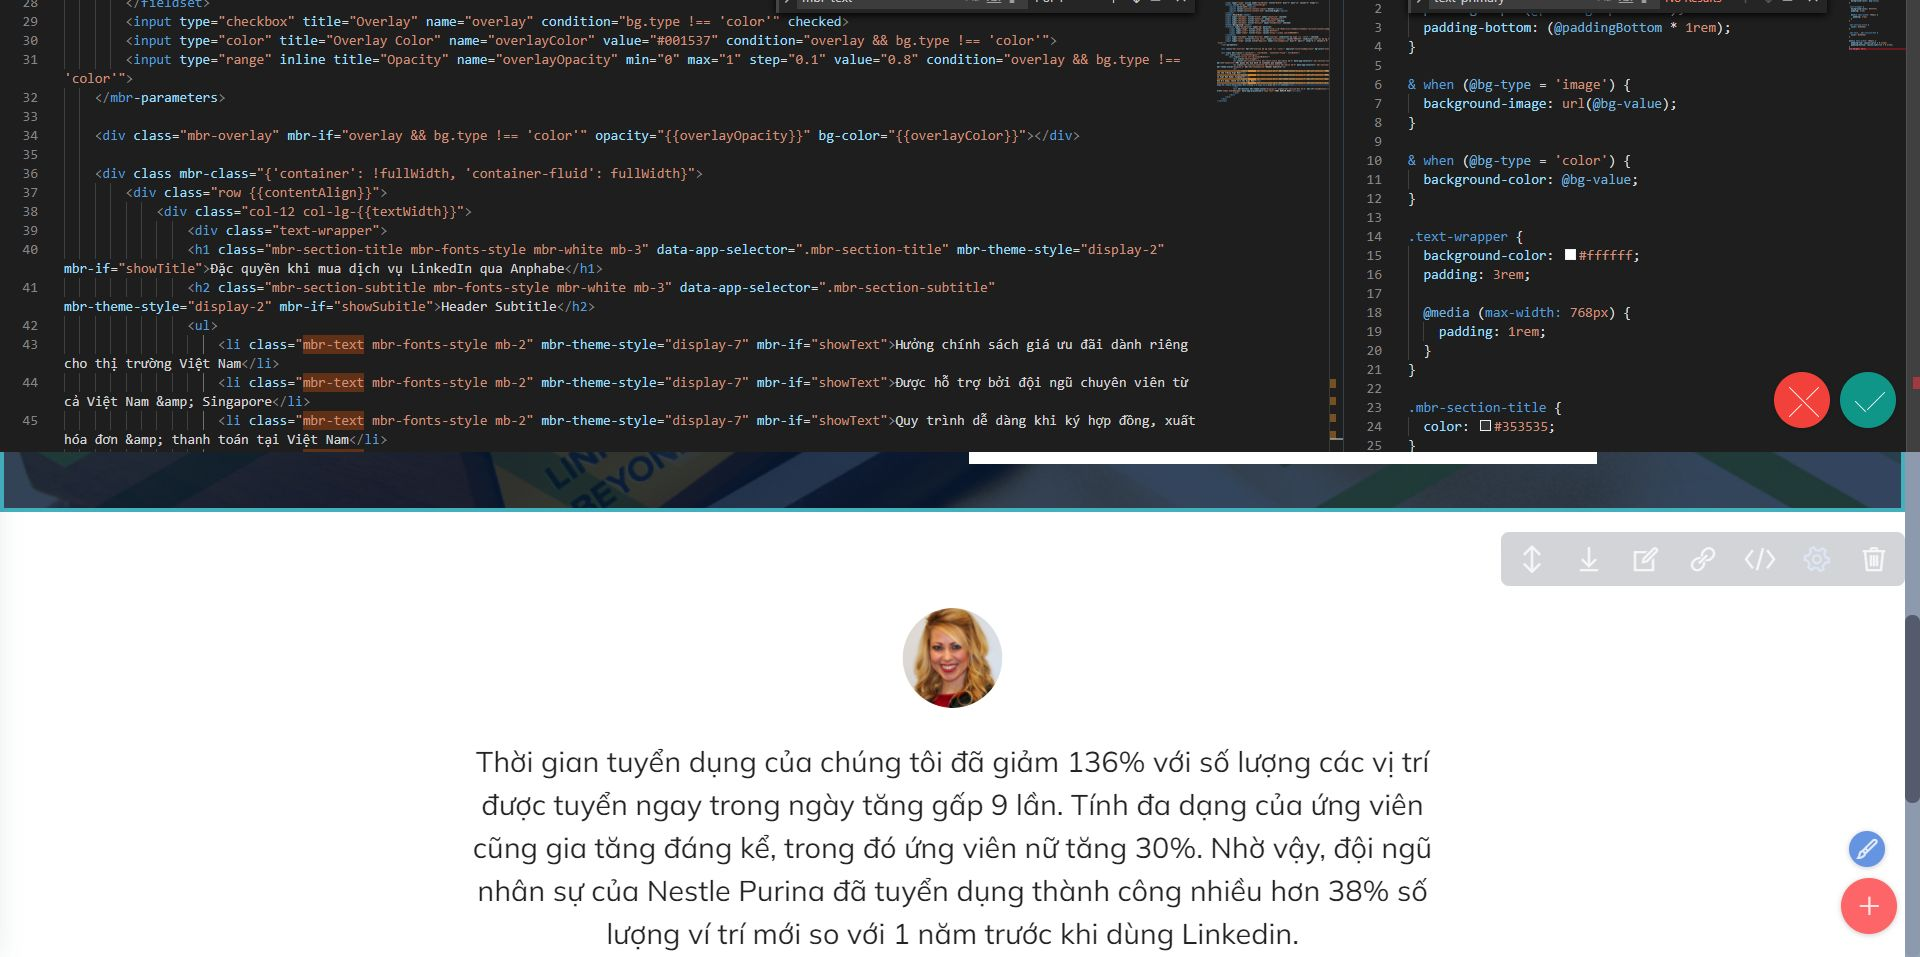
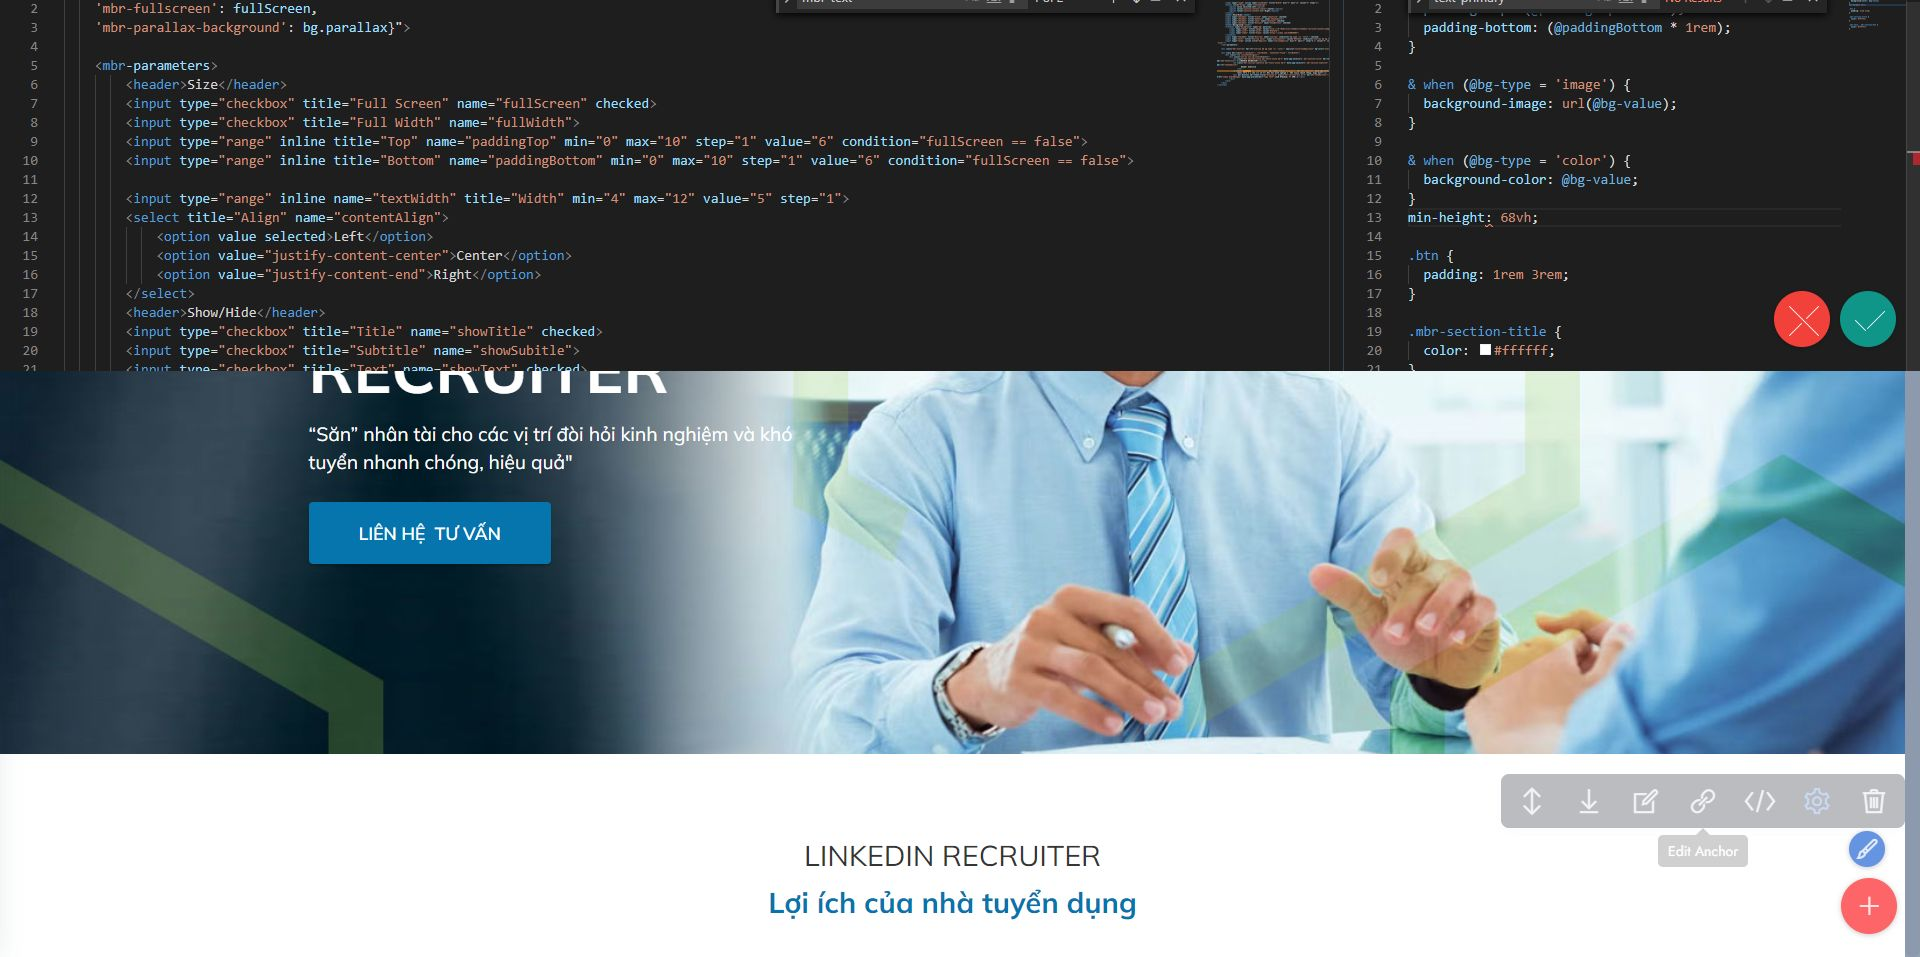
update

diff --git a/linkedin-recruiter/assets/mobirise/css/mbr-additional.css b/linkedin-recruiter/assets/mobirise/css/mbr-additional.css
@@ -1031,8 +1031,8 @@ a {
   }
 }
 .cid-t64vYlXEar {
-  background-image: url("../../../assets/images/cover-recruiter-3.jpg");
-  min-height: 60vh;
+  background-image: url("../../../assets/images/cover-recruiter-6.jpg");
+  min-height: 68vh;
 }
 .cid-t64vYlXEar .btn {
   padding: 1rem 3rem;
